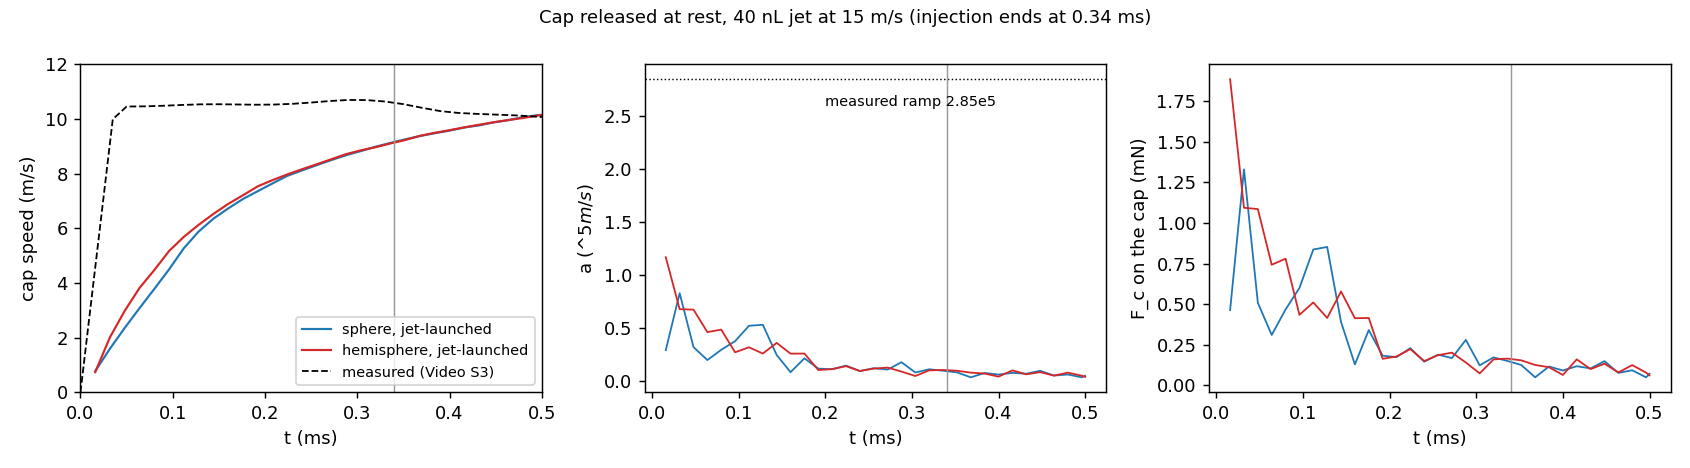
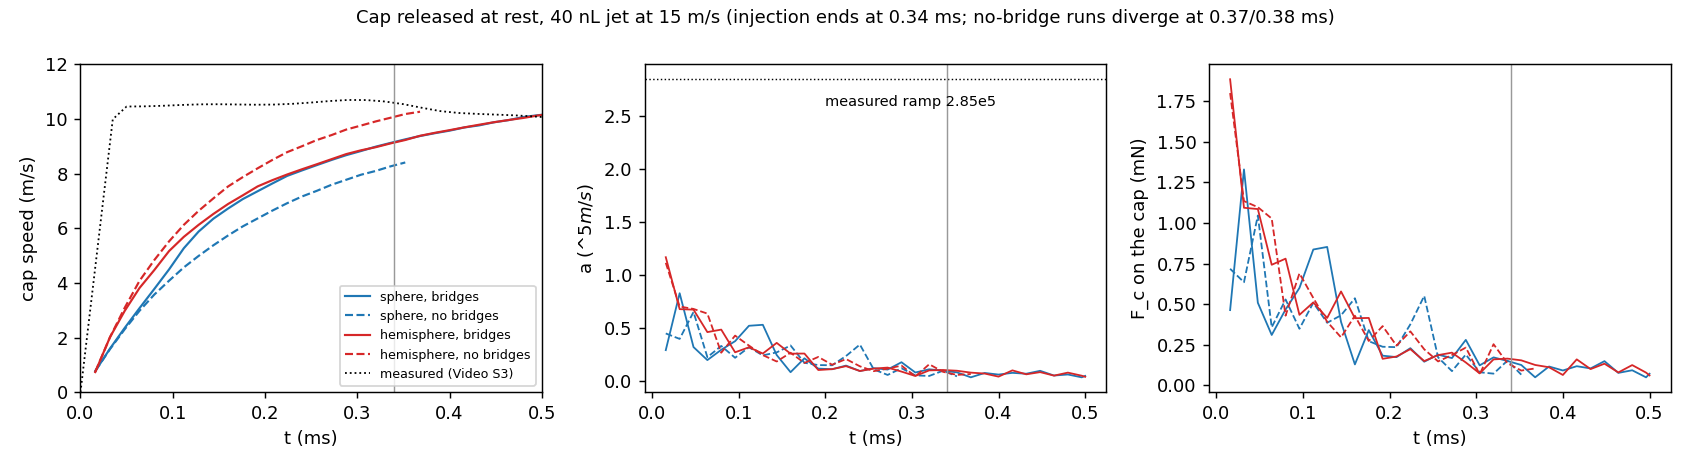
pilobolus: no-bridge jet-launched twins (design.md 7.12): same launch, CFL blow-up at 0.37/0.38 ms in the fluid

diff --git a/docs/design.md b/docs/design.md
@@ -1436,3 +1436,18 @@ released at rest on the first step and only the 15 m/s, 40 nL jet pushes it
   earlier cases do) or applies the pressure as a force on the cap and the
   sap over t_rise, and the jet's job in the model is the sap disc and
   thread it leaves on and behind the cap.
+
+The no-bridge twins (`sap_jet_tuo_free0_{sph,hemi}_nobridge`) launch the cap
+the same way or faster (hemisphere 9.9 m/s at 0.32 ms vs 9.0 with bridges,
+which pull back; sphere 8.1 vs 9.0) and then diverge at step 459 / 478
+(0.37 / 0.38 ms), the "Unreasonable FLUID CFL" abort of the moving no-bridge
+run above. The growth is in the fluid, not the parcels: the parcel speeds
+stay ≤ 15.5 m/s to the last snapshot, no parcel is in contact, phi_max
+0.13–0.16 and div_max 0, while the fluid CFL creeps from 0.6 (step 400) to
+0.95 (420, the last injected parcel), 1.5 (438) and then doubles every
+three steps. The held no-bridge caps and every bridge run are stable, so
+the trigger needs a moving body with loose parcels against it; what the
+fluid does there is not visible without checkpoints every few steps
+(restart from the step-400 checkpoint with `checkpointInterval = 5` would
+locate it). Since a wet cap in a wet jet has bridges, the bridge runs are
+the physical model and the no-bridge divergence is parked.
